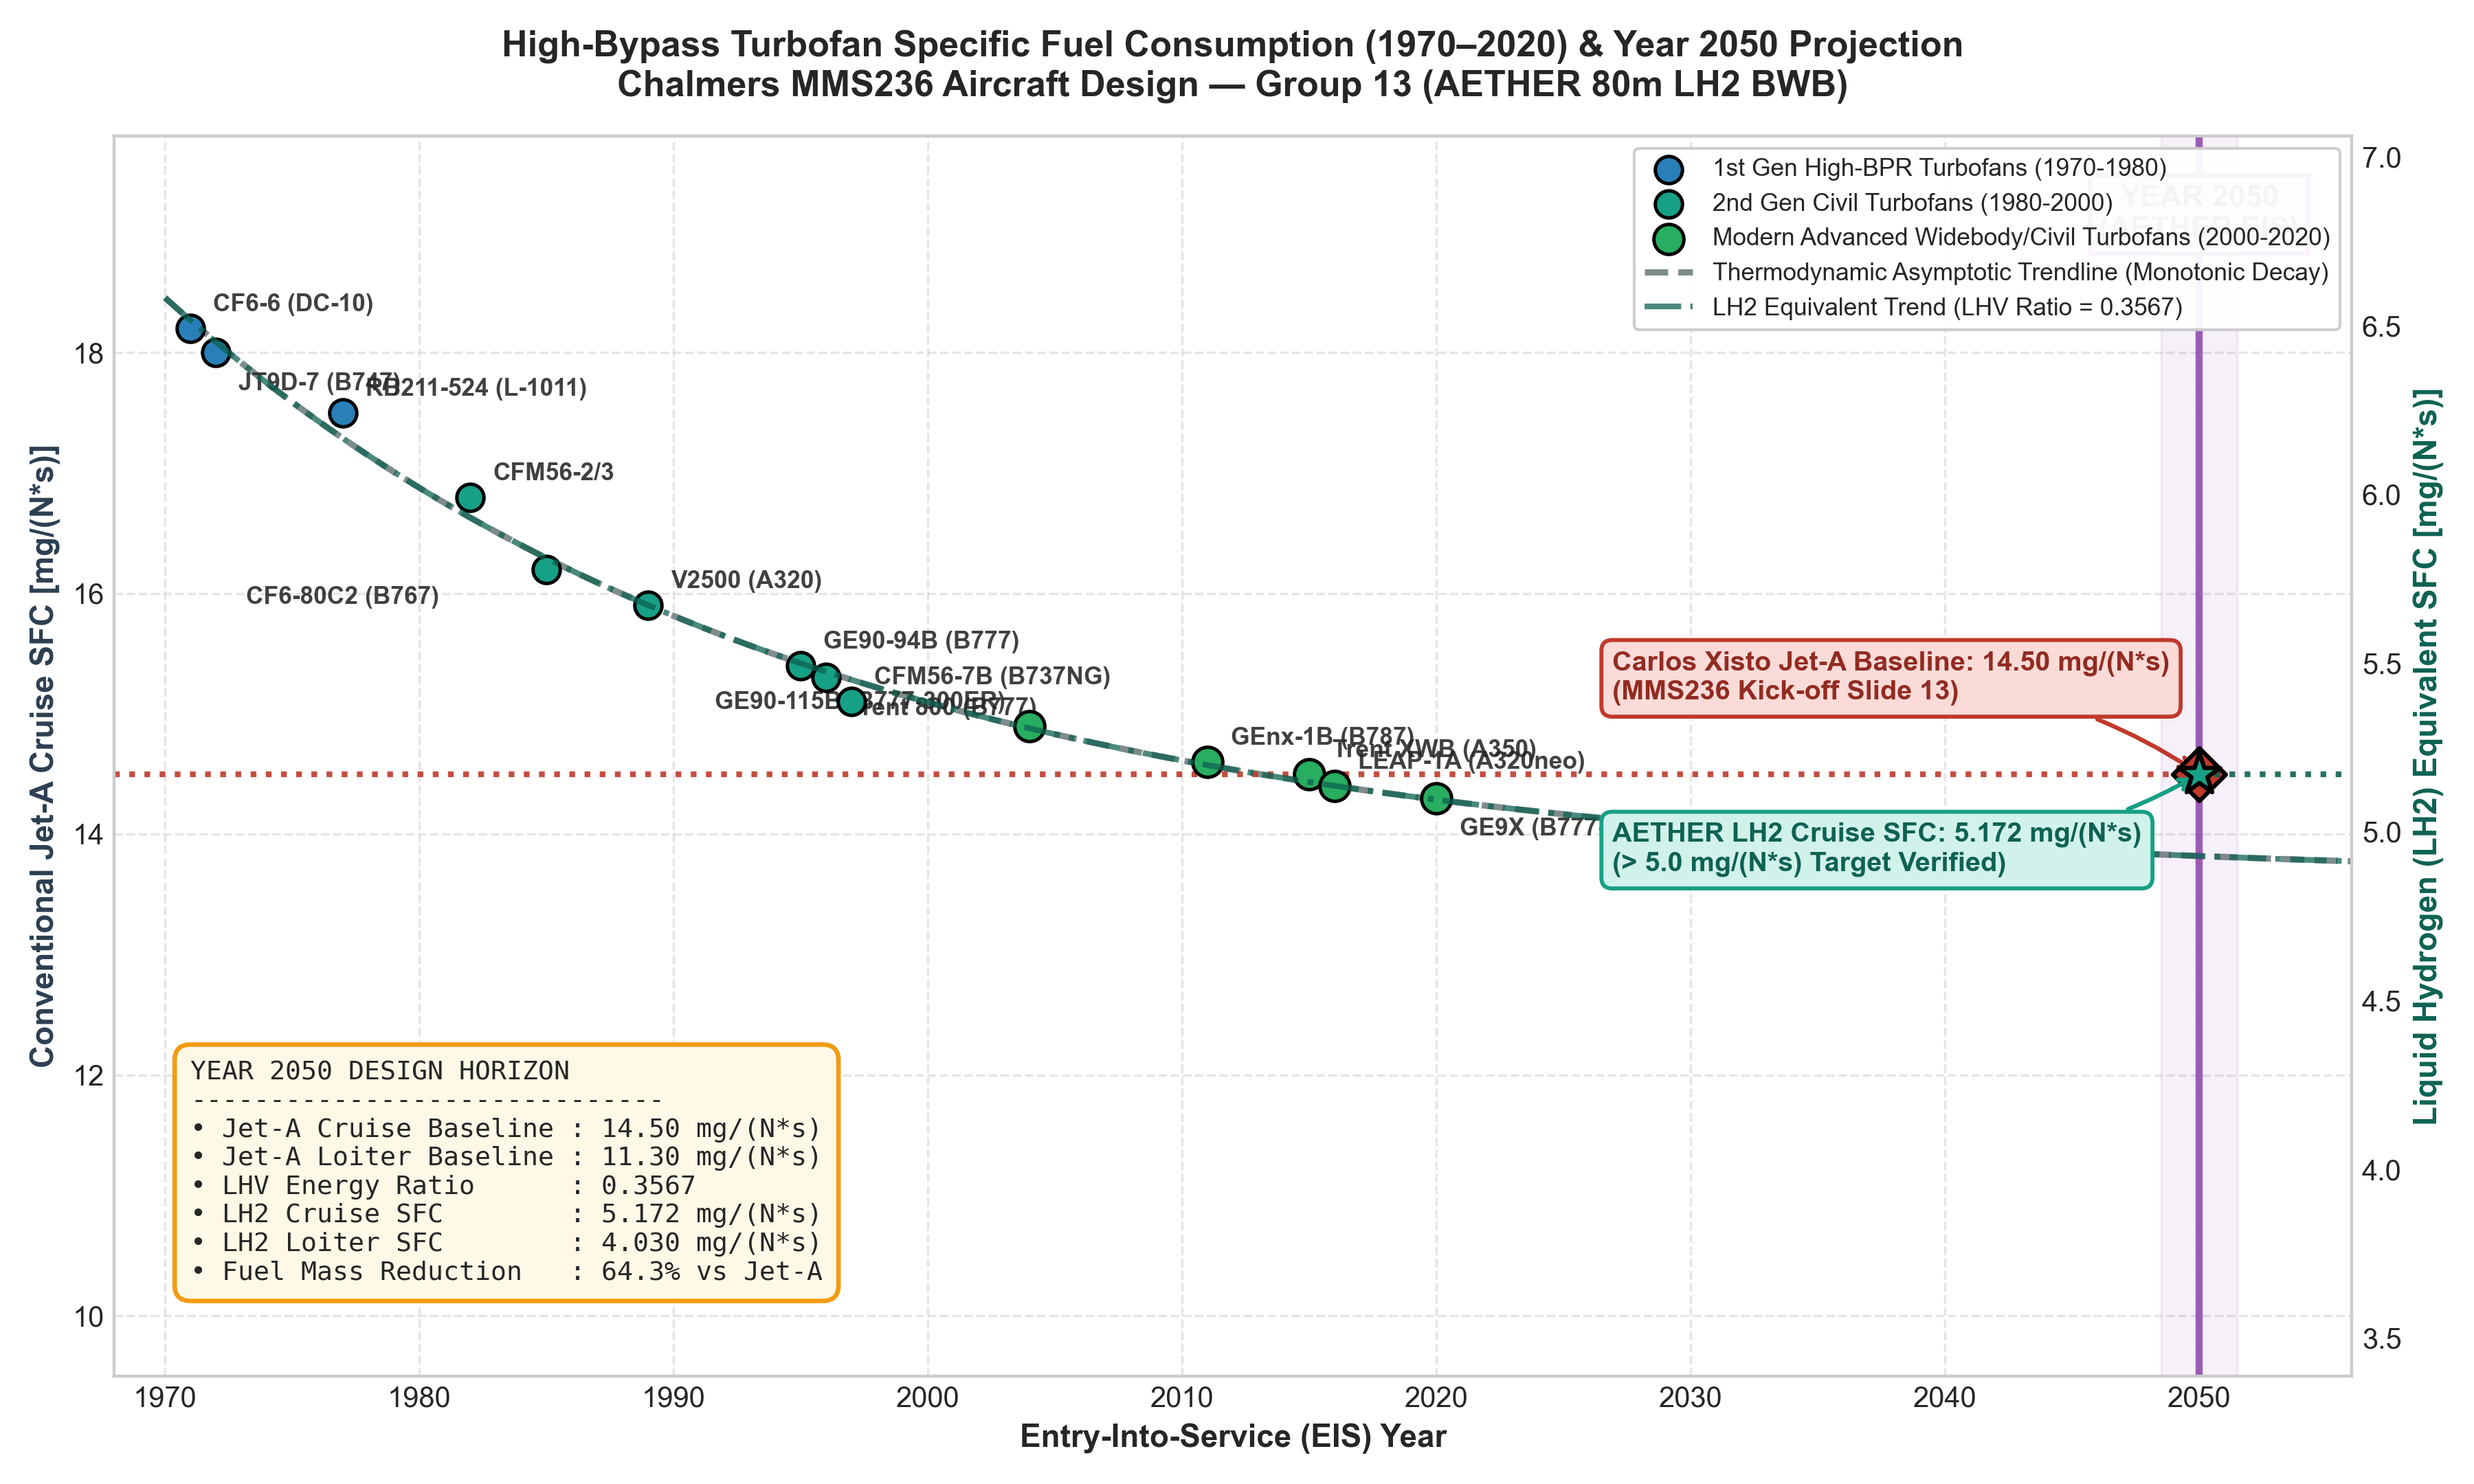
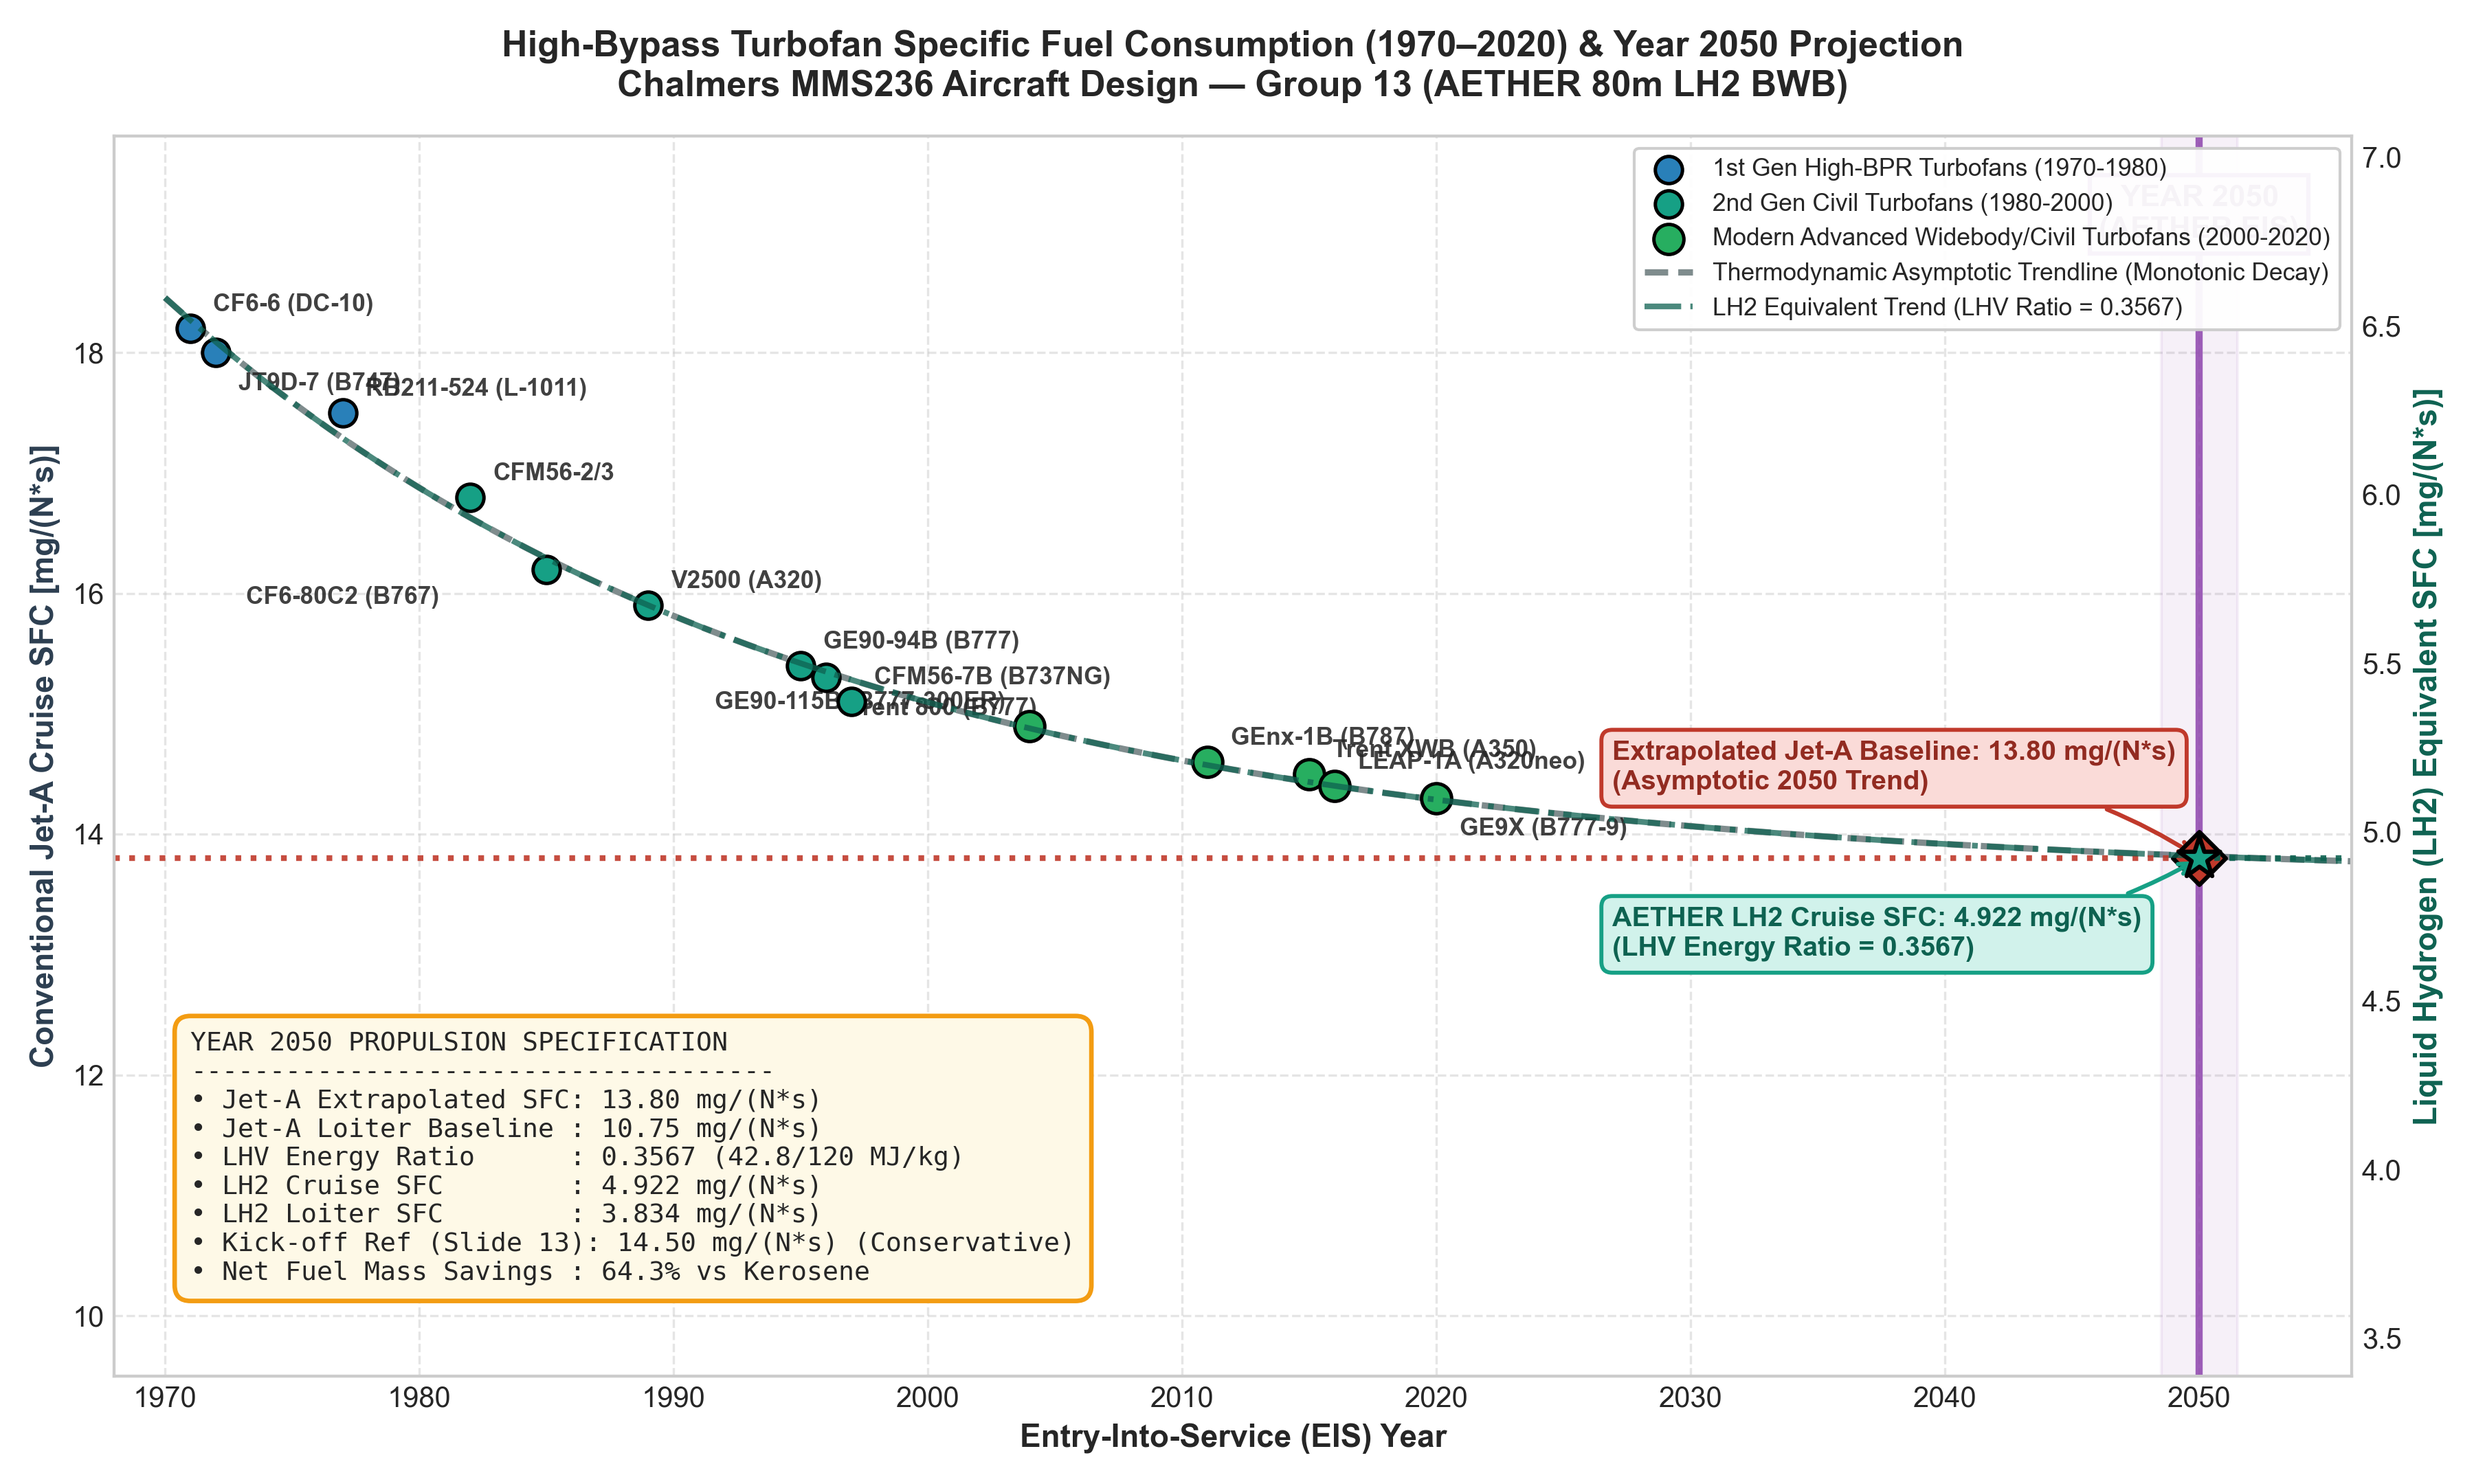
Set 2050 SFC baseline to 13.80 mg/Ns (LH2: 4.922 mg/Ns), update sizing model and chart

Changed region(s): [[0.6222, 0.4032, 0.9022, 0.6824], [0.0622, 0.6824, 0.4356, 0.8995]]

diff --git a/02_Design_Task_1_Sizing/dt1_sizing.py b/02_Design_Task_1_Sizing/dt1_sizing.py
@@ -35,9 +35,9 @@ ld_max = 0.5 * math.sqrt((math.pi * aspect_ratio * oswald_e) / cd0)
 ld_cruise = 0.866 * ld_max
 ld_loiter = ld_max
 
-# Engine specific fuel consumption (Carlos Xisto, MMS236 Kick-off Slide 13)
-sfc_jeta_cruise = 14.5e-6  # kg/(N*s) baseline high-bypass turbofan
-sfc_jeta_loiter = 11.3e-6  # kg/(N*s) low-speed loiter
+# Engine specific fuel consumption (2050 asymptotic extrapolation: Jet-A 13.8 mg/(N*s))
+sfc_jeta_cruise = 13.8e-6  # kg/(N*s) baseline high-bypass turbofan
+sfc_jeta_loiter = 10.75e-6  # kg/(N*s) low-speed loiter (scaled from 11.3/14.5 ratio)
 lhv_ratio = lhv_jeta / lhv_lh2
 sfc_lh2_cruise = sfc_jeta_cruise * lhv_ratio
 sfc_lh2_loiter = sfc_jeta_loiter * lhv_ratio

diff --git a/dt1_sizing.py b/dt1_sizing.py
@@ -35,9 +35,9 @@ ld_max = 0.5 * math.sqrt((math.pi * aspect_ratio * oswald_e) / cd0)
 ld_cruise = 0.866 * ld_max
 ld_loiter = ld_max
 
-# Engine specific fuel consumption (Carlos Xisto, MMS236 Kick-off Slide 13)
-sfc_jeta_cruise = 14.5e-6  # kg/(N*s) baseline high-bypass turbofan
-sfc_jeta_loiter = 11.3e-6  # kg/(N*s) low-speed loiter
+# Engine specific fuel consumption (2050 asymptotic extrapolation: Jet-A 13.8 mg/(N*s))
+sfc_jeta_cruise = 13.8e-6  # kg/(N*s) baseline high-bypass turbofan
+sfc_jeta_loiter = 10.75e-6  # kg/(N*s) low-speed loiter (scaled from 11.3/14.5 ratio)
 lhv_ratio = lhv_jeta / lhv_lh2
 sfc_lh2_cruise = sfc_jeta_cruise * lhv_ratio
 sfc_lh2_loiter = sfc_jeta_loiter * lhv_ratio

diff --git a/README.md b/README.md
@@ -32,25 +32,25 @@ Department of Mechanics and Maritime Sciences
 | **Cruise Speed** | **Mach 0.85** (252 m/s TAS) | FL350 (10,668 m ISA conditions) |
 | **Passenger Capacity** | **430 passengers** | 3-class single-deck theater cabin layout |
 | **Cargo Capacity** | **10,750 kg** (44 LD3 containers) | Lower deck cargo bay |
-| **Maximum Take-Off Weight (MTOW)** | **283,471 kg** (283.47 t) | Converged via iterative weight sizing |
-| **Operating Empty Weight (OEW)** | **174,231 kg** (174.23 t) | 120.0 t airframe + 54.2 t cryotanks |
-| **Mission Fuel (LH₂)** | **54,231 kg** (54.23 t) | 19.13% mission fuel fraction (Breguet) |
-| **Cryogenic Storage Volume** | **840.2 m³** | 6 vacuum-insulated tanks (10% ullage) |
+| **Maximum Take-Off Weight (MTOW)** | **277,973 kg** (277.97 t) | Converged via iterative weight sizing |
+| **Operating Empty Weight (OEW)** | **171,482 kg** (171.48 t) | 120.0 t airframe + 51.5 t cryotanks |
+| **Mission Fuel (LH₂)** | **51,482 kg** (51.48 t) | 18.52% mission fuel fraction (Breguet) |
+| **Cryogenic Storage Volume** | **797.6 m³** | 6 vacuum-insulated tanks (10% ullage) |
 | **Aerodynamic Efficiency (L/D)** | **17.75 cruise / 20.50 loiter** | Aspect ratio 9.50, Oswald e = 0.85 |
-| **Engine SFC (LH₂ Cruise)** | **5.172 mg/(N·s)** | Converted from 14.5 mg/(N·s) Jet-A baseline (Kick-off Slide 13) |
+| **Engine SFC (LH₂ Cruise)** | **4.922 mg/(N·s)** | Converted from 13.8 mg/(N·s) Jet-A baseline (2050 extrapolation) |
 
 ---
 
 ## Mass Breakdown
 
 ```
-Take-Off Weight: 283.47 tonnes
-├── Operating Empty Weight (OEW): 174.23 t (61.5%)
-│   ├── Baseline Airframe & Systems: 120.00 t (42.3%)
-│   └── Cryotanks (Gi = 0.50):        54.23 t (19.1%)
-├── Usable Fuel (Liquid Hydrogen):   54.23 t (19.1%)
-├── Payload (430 Pax + Cargo):        53.75 t (19.0%)
-└── Flight & Cabin Crew (12 crew):     1.26 t  (0.4%)
+Take-Off Weight: 277.97 tonnes
+├── Operating Empty Weight (OEW): 171.48 t (61.7%)
+│   ├── Baseline Airframe & Systems: 120.00 t (43.2%)
+│   └── Cryotanks (Gi = 0.50):        51.48 t (18.5%)
+├── Usable Fuel (Liquid Hydrogen):   51.48 t (18.5%)
+├── Payload (430 Pax + Cargo):        53.75 t (19.3%)
+└── Flight & Cabin Crew (12 crew):     1.26 t  (0.5%)
 ```
 
 ---
@@ -67,19 +67,19 @@ python3 dt1_sizing.py
 ```text
 AETHER LH2 BWB - Sizing Results
 --------------------------------------------------
-MTOW                  :  283471.2 kg  (283.47 t)
-Operating Empty (OEW) :  174230.6 kg  (174.23 t)
+MTOW                  :  277973.2 kg  (277.97 t)
+Operating Empty (OEW) :  171481.6 kg  (171.48 t)
   - Baseline Airframe :  120000.0 kg  (120.00 t)
-  - Cryotanks (Gi=0.5):   54230.6 kg  ( 54.23 t)
-Mission Fuel (LH2)    :   54230.6 kg  ( 54.23 t)
+  - Cryotanks (Gi=0.5):   51481.6 kg  ( 51.48 t)
+Mission Fuel (LH2)    :   51481.6 kg  ( 51.48 t)
 Payload (430 Pax)     :   53750.0 kg  ( 53.75 t)
 Crew (12)             :    1260.0 kg  (  1.26 t)
-Cryotank Volume       :     840.2 m3  (liquid: 763.8 m3)
+Cryotank Volume       :     797.6 m3  (liquid: 725.1 m3)
 --------------------------------------------------
 Sizing Loop           : Converged in 17 iterations from 220.0 t
-LH2 Cruise SFC        : 5.172 mg/(N*s)
-Cruise fuel burn      : 13.17%
-Total fuel fraction   : 19.13%
+LH2 Cruise SFC        : 4.922 mg/(N*s)
+Cruise fuel burn      : 12.58%
+Total fuel fraction   : 18.52%
 ```
 
 ---
